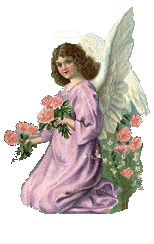
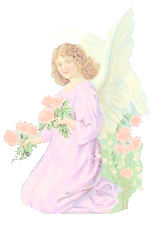
lighter

diff --git a/stylesheets/style.css b/stylesheets/style.css
@@ -99,10 +99,13 @@ header{
 .blog-text{
     text-align: left;
     color:white;
-    background: #aeb1cf;
+    background: #cbcde9;
   padding: 3px;
     font-size:12px;
     margin:0;
+    box-shadow: inset -1px -1px #ffffff,
+    inset 1px 1px #ffffff, inset -2px -2px #808080,
+    inset 2px 2px #dfdfdf;
 }
 .wrapper{
     overflow-x: hidden;
